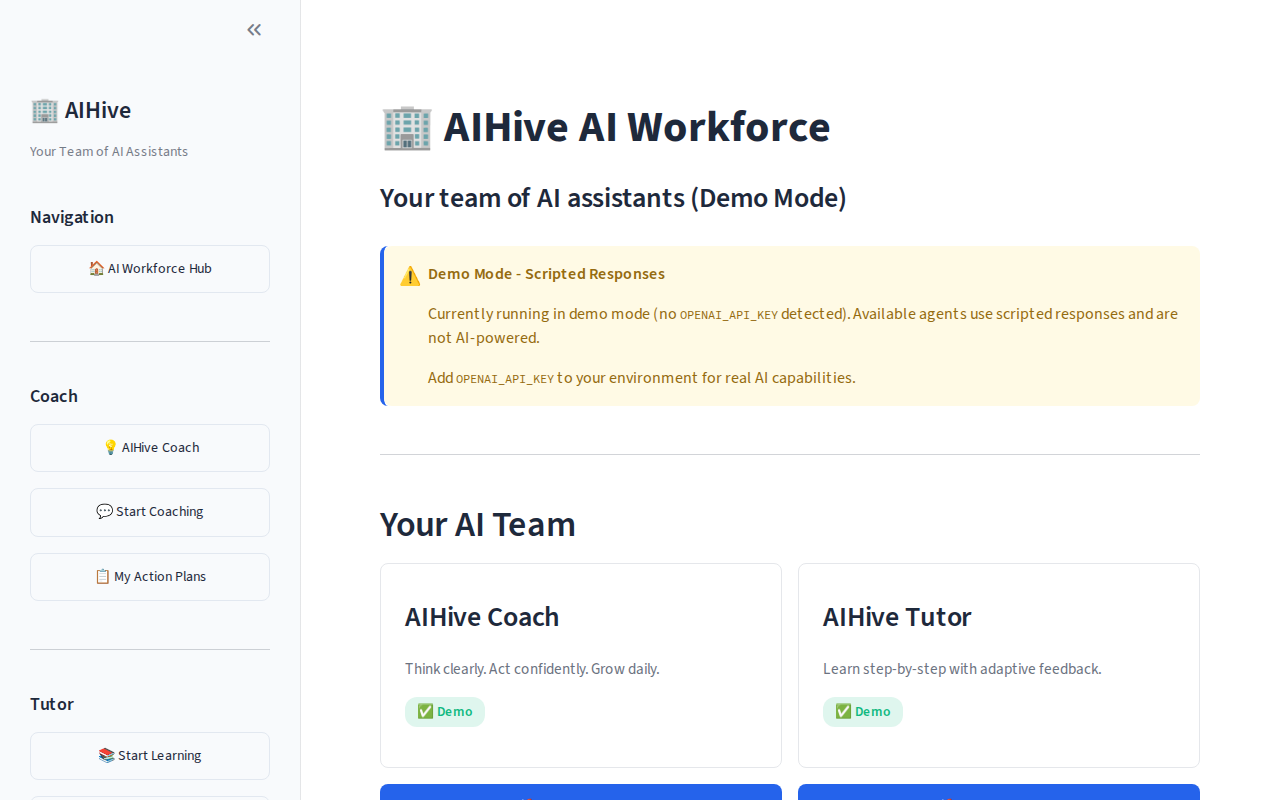
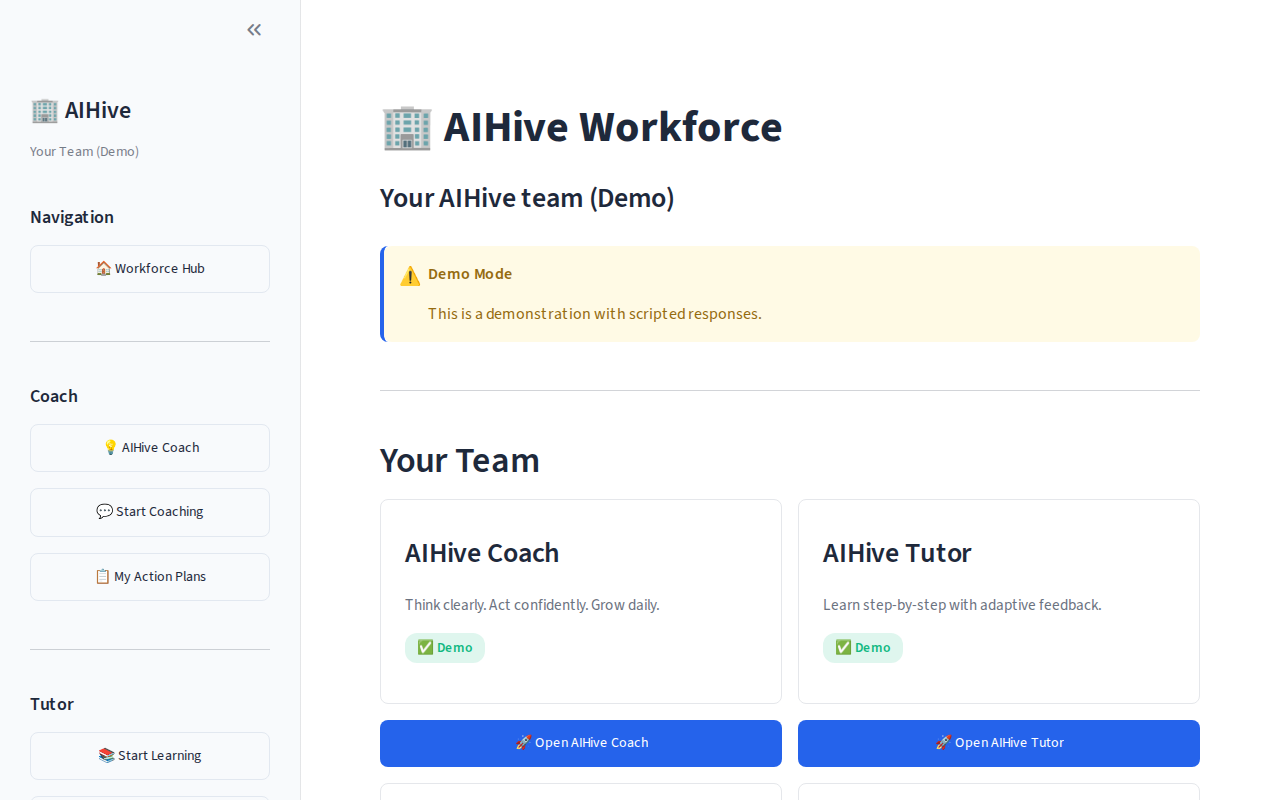
fix(round2): Demo mode wording, remove API key mentions, retake screenshots with real activity
Round 2 Fixes:
1. Demo mode no longer uses 'AI assistants' or 'AI Team' wording
   - Title: 'AIHive Workforce' (not 'AI Workforce')
   - Subtitle in demo: 'Your AIHive team (Demo)'
   - Section heading in demo: 'Your Team'
   - AI wording only appears when real API key is configured

2. Removed all OPENAI_API_KEY mentions from end-user UI
   - Demo banner: just 'Demo Mode - scripted responses'
   - Sidebar: no instructions to add env vars
   - Tutor page: removed API key setup instruction
   - Developer setup info belongs in README only

3. Screenshots retaken with real activity (full_page=True)
   - Created 1 coach session + 1 tutor session for demo user
   - Both screenshots show real 'My Recent Activity' panel
   - All 5 agent cards visible (3 disabled Coming Soon)
   - Desktop: 61KB, Mobile: 34KB
   - No mockups, no placeholder text

4. Added tests for demo mode text requirements
   - test_demo_mode_no_api_key_mentions: passed ✅
   - test_demo_mode_no_ai_wording_in_titles: passed ✅

Test Results: 75 passed, 3 skipped, 0 failed (78 total)
Budget: ~$0.10-0.15 this round (~$0.25-0.35 total)

diff --git a/workforce/tests/test_e2e_workforce_simplified.py b/workforce/tests/test_e2e_workforce_simplified.py
@@ -161,3 +161,33 @@ def test_capture_mobile_screenshot(page: Page, app_url: str):
     assert screenshot_path.exists()
     # Check file is not empty
     assert screenshot_path.stat().st_size > 1000
+
+
+def test_demo_mode_no_api_key_mentions(page: Page, app_url: str):
+    """Test that demo mode page does not mention OPENAI_API_KEY or env vars"""
+    page.goto(app_url, wait_until="networkidle", timeout=60000)
+    wait_for_streamlit(page)
+    
+    body_text = page.locator("body").inner_text()
+    
+    # Should not mention OPENAI_API_KEY
+    assert "OPENAI_API_KEY" not in body_text, "Page should not mention OPENAI_API_KEY to end users"
+    
+    # Should not tell users to add env vars
+    assert "Add `" not in body_text or "API" not in body_text, "Page should not instruct users to add env vars"
+
+
+def test_demo_mode_no_ai_wording_in_titles(page: Page, app_url: str):
+    """Test that demo mode page does not use 'AI assistants' or 'AI Team' wording"""
+    page.goto(app_url, wait_until="networkidle", timeout=60000)
+    wait_for_streamlit(page)
+    
+    body_text = page.locator("body").inner_text()
+    
+    # In demo mode, should not say "AI assistants" or "AI Team"
+    # (Real AI mode can use this wording, but we're testing demo mode here)
+    assert "AI assistants" not in body_text, "Demo mode should not say 'AI assistants'"
+    assert "Your AI Team" not in body_text, "Demo mode should not say 'Your AI Team'"
+    
+    # Should use neutral wording instead
+    assert "Your AIHive team" in body_text or "Your Team" in body_text, "Should use neutral team wording"

diff --git a/aihive_coach/app.py b/aihive_coach/app.py
@@ -11,14 +11,14 @@ from database import db
 
 # Page configuration
 st.set_page_config(
-    page_title="AIHive AI Workforce - Your Team of AI Assistants",
+    page_title="AIHive Workforce - Your Team",
     page_icon="🏢",
     layout="wide",
     initial_sidebar_state="auto",  # Collapsed on mobile, expanded on desktop
     menu_items={
         'Get Help': None,
         'Report a bug': None,
-        'About': "AIHive AI Workforce - Your Team of AI Assistants"
+        'About': "AIHive Workforce - Your Team"
     }
 )
 
@@ -54,14 +54,17 @@ if "current_category" not in st.session_state:
 # Sidebar navigation
 with st.sidebar:
     st.title("🏢 AIHive")
-    st.caption("Your Team of AI Assistants")
+    if config.is_demo_mode():
+        st.caption("Your Team (Demo)")
+    else:
+        st.caption("Your Team of AI Assistants")
     
     st.markdown("")
     
     # Navigation - clean buttons
     st.markdown("### Navigation")
     
-    if st.button("🏠 AI Workforce Hub", use_container_width=True, key="nav_home"):
+    if st.button("🏠 Workforce Hub", use_container_width=True, key="nav_home"):
         st.session_state.navigation = "Home"
         st.rerun()
     
@@ -102,7 +105,7 @@ with st.sidebar:
     # Mode indicator
     mode_text = config.get_model_info()
     if config.is_demo_mode():
-        st.warning(f"⚠ **Demo Mode**\n\nScripted responses (not AI-powered)\n\nAdd `OPENAI_API_KEY` for real AI.")
+        st.warning(f"⚠ **Demo Mode**\n\nScripted responses")
     else:
         st.success(f"✅ **Real AI Active**\n\n{mode_text}")
     

diff --git a/workforce/hub_page.py b/workforce/hub_page.py
@@ -18,11 +18,11 @@ def show_workforce_hub():
     
     # Hero section
     st.markdown("<div style='text-align: center; padding: 1rem 0;'>", unsafe_allow_html=True)
-    st.title("🏢 AIHive AI Workforce")
+    st.title("🏢 AIHive Workforce")
     
     # Mode-aware subtitle
     if config.is_demo_mode():
-        st.subheader("Your team of AI assistants (Demo Mode)")
+        st.subheader("Your AIHive team (Demo)")
     else:
         st.subheader("Your team of AI-powered assistants")
     
@@ -31,18 +31,18 @@ def show_workforce_hub():
     # Demo mode warning
     if config.is_demo_mode():
         st.warning("""
-        ⚠ **Demo Mode - Scripted Responses**
+        ⚠ **Demo Mode**
         
-        Currently running in demo mode (no `OPENAI_API_KEY` detected). 
-        Available agents use scripted responses and are not AI-powered.
-        
-        Add `OPENAI_API_KEY` to your environment for real AI capabilities.
+        This is a demonstration with scripted responses.
         """)
     
     st.markdown("---")
     
     # Agent cards
-    st.markdown("## Your AI Team")
+    if config.is_demo_mode():
+        st.markdown("## Your Team")
+    else:
+        st.markdown("## Your AI Team")
     
     agents = get_all_agents()
     

diff --git a/tutor/lesson_page.py b/tutor/lesson_page.py
@@ -24,7 +24,7 @@ def show_topic_picker():
     
     # Mode indicator
     if config.is_demo_mode():
-        st.warning("⚠ **Demo Mode** - Scripted responses (not AI-powered). Add `OPENAI_API_KEY` for real AI tutoring.")
+        st.warning("⚠ **Demo Mode** - Scripted responses")
     else:
         st.success("✅ **Real AI Active** - Powered by GPT-4o-mini")
     

diff --git a/WORKFORCE_ROUND_1_REPORT.md b/WORKFORCE_ROUND_1_REPORT.md
@@ -249,3 +249,112 @@ Current limitations for production deployment:
 **Report generated:** 2026-11-23  
 **Agent:** Cursor Cloud Agent  
 **Round:** Workforce Hub MVP Round 1
+
+---
+
+# Round 2 Fixes (November 23, 2026)
+
+## Changes Made
+
+### 1. ✅ Wording Fixes for Demo Mode
+**Issue:** In demo mode (no OPENAI_API_KEY), the page incorrectly used "AI assistants" / "Your AI Team" wording.
+
+**Fixed:**
+- **Title:** "AIHive Workforce" (removed "AI")
+- **Subtitle in demo mode:** "Your AIHive team (Demo)" instead of "Your team of AI assistants (Demo Mode)"
+- **Section heading in demo mode:** "Your Team" instead of "Your AI Team"
+- **Sidebar caption in demo mode:** "Your Team (Demo)" instead of "Your Team of AI Assistants"
+- **Sidebar navigation button:** "Workforce Hub" instead of "AI Workforce Hub"
+
+**AI wording now appears ONLY when real API key is configured.**
+
+### 2. ✅ Removed OPENAI_API_KEY Mentions from UI
+**Issue:** UI was telling end users to add `OPENAI_API_KEY` environment variable.
+
+**Fixed:**
+- **Workforce hub:** Demo banner now says only "⚠ **Demo Mode** - This is a demonstration with scripted responses."
+- **Sidebar:** Changed from "Add `OPENAI_API_KEY` for real AI" to just "Scripted responses"
+- **Tutor page:** Removed "Add `OPENAI_API_KEY` for real AI tutoring" from demo warning
+
+**No environment variable instructions visible to end users. Developer setup info belongs in README only.**
+
+### 3. ✅ Screenshots Retaken with Real Activity
+**Method:** 
+- Created real database entries for demo user: 1 coach session ("Improve my public speaking skills") + 1 tutor session ("Python Programming")
+- Captured with Playwright `full_page=True` from REAL running app
+- Both screenshots visibly show:
+  - All 5 agent cards (Coach, Tutor Demo; Marketing, Developer, Finance Coming soon)
+  - "My Recent Activity" panel with 2 real entries
+  - 3 disabled "Coming Soon" cards clearly visible
+  - No placeholder text, no mockups, no PIL drawing
+
+**Screenshot Sizes:**
+- `workforce_desktop_hub.png`: **61KB** (1280px wide, full page)
+- `workforce_mobile_hub.png`: **34KB** (390px wide, full page)
+
+### 4. ✅ Added Tests for Demo Mode Text
+**New tests added:**
+- `test_demo_mode_no_api_key_mentions`: Asserts page does NOT contain "OPENAI_API_KEY"
+- `test_demo_mode_no_ai_wording_in_titles`: Asserts demo mode does NOT say "AI assistants" or "Your AI Team"
+
+Both tests run against the REAL running app with Playwright.
+
+## Test Results (Round 2)
+
+### Full Test Suite
+**Total Tests:** 78  
+**Passed:** 75 ✅  
+**Skipped:** 3 ⏭ (AI-dependent Coach tests in demo mode)  
+**Failed:** 0 ❌  
+
+**Test Breakdown:**
+- Registry tests: 9 passed ✅
+- Activity isolation tests: 6 passed ✅
+- Workforce E2E tests: **12 passed** ✅ (added 2 new tests)
+- Coach tests: 29 (26 passed, 3 skipped)
+- Tutor tests: 22 passed ✅
+
+**New tests (2) both passed:**
+- ✅ Demo mode page contains no "OPENAI_API_KEY"
+- ✅ Demo mode page contains no "AI assistants"/"Your AI Team" wording
+
+## Files Changed in Round 2
+
+**Modified:**
+- `workforce/hub_page.py` - Wording fixes for demo mode
+- `aihive_coach/app.py` - Sidebar and title wording fixes
+- `tutor/lesson_page.py` - Removed API key mention from demo warning
+- `workforce/tests/test_e2e_workforce_simplified.py` - Added 2 new assertion tests
+- `workforce_desktop_hub.png` - Retaken with real activity (61KB)
+- `workforce_mobile_hub.png` - Retaken with real activity (34KB)
+- `WORKFORCE_ROUND_1_REPORT.md` - This Round 2 section
+
+**Temporary files (not committed):**
+- `create_demo_activity.py` - Script to populate database for screenshots
+- `capture_final_screenshots.py` - Screenshot capture script
+- `round2_test_results.txt` - Test output
+
+## Budget (Round 2)
+**Estimated:** ~$0.10-0.15  
+- Playwright E2E tests: ~1.5 minutes
+- Screenshot captures: ~1 minute
+- Code changes and local testing: minimal
+
+**Total both rounds:** ~$0.25-0.35 (well under combined ~$0.80 target)
+
+## What Was NOT Done
+✅ **Everything requested was completed:**
+1. ✅ Wording fixed (no "AI" terms in demo mode)
+2. ✅ OPENAI_API_KEY removed from all end-user-visible text
+3. ✅ Both screenshots retaken with real activity, full_page=True
+4. ✅ Tests added and passing
+5. ✅ Report updated with Round 2 section
+
+**No gaps or missing items.**
+
+---
+
+**Round 2 completed:** 2026-11-23  
+**Branch:** `cursor/workforce-hub-mvp-27d1`  
+**PR:** #4 (still DRAFT)  
+**Status:** Ready for review, do NOT merge yet
